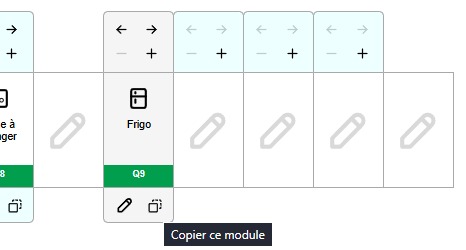
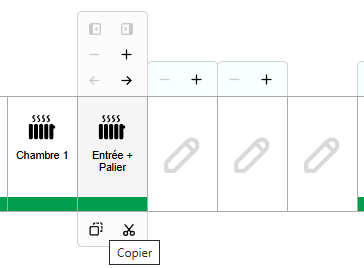
Documentation update

diff --git a/README.md b/README.md
@@ -92,7 +92,7 @@ Le symbole `→` vous permet de déplacer le module d'une position sur la droite
 
 Le symbole `Crayon` (ou la touche `Entrée` du clavier) permet d'éditer le module en question.
 
-#### Copier / Coller
+#### Copier / Couper / Coller
 
 Le symbole suivant permet de copier le module. Celà permet de copier, le libellé, le pictogramme et la description du module pour le duppliquer ailleurs sur le tableau. Une fois le module mis dans le presse papier, l'application vous met en avant les emplacements disponibles en fonction de la largeur initiale du module copié.
 
@@ -102,9 +102,7 @@ Exemple d'emplacements disponibles :
 
 ![Coller aux emplacements disponibles](https://github.com/pantaflex44/Tiquettes/blob/main/docs/_pasteall.png?raw=true)
 
-Cliquer sur le bouton pour duppliquer le module à cet emplacement :
-
-![Coller](https://github.com/pantaflex44/Tiquettes/blob/main/docs/_paste.png?raw=true)
+Cliquer sur l'icône pour duppliquer / d&placer le module à cet emplacement.
 
 Pour annuler, soit, cliquer sur l'icône ci-dessous, soit appuyer sur la touche `Echap`:
 
@@ -242,6 +240,16 @@ Sélectionnez le thème de votre choix puis admirez le style de vos étiquettes 
 - Thème Legrand - Couleur - Tertiaire
 
 ![Thème Legrand - Couleur - Tertiaire](https://github.com/pantaflex44/Tiquettes/blob/main/docs/_theme_lgd_cter.png?raw=true)
+
+- Thème Créations - Orange is the new dark
+
+![Thème Créations - Orange is the new dark](https://github.com/pantaflex44/Tiquettes/blob/main/docs/_theme_crea_orange.png?raw=true)
+
+- Thème Créations - GoldenWine
+
+![Thème Créations - GoldenWine](https://github.com/pantaflex44/Tiquettes/blob/main/docs/_theme_crea_golden.png?raw=true)
+
+
 
 ### Personnaliser la décoration
 

diff --git a/CHANGELOG.md b/CHANGELOG.md
@@ -1,7 +1,7 @@
 # Changelog
 
 
-## [2.1.1] - 2025-03-19
+## [2.1.1] - 2025-03-21
 
 ### Améliorations
 
